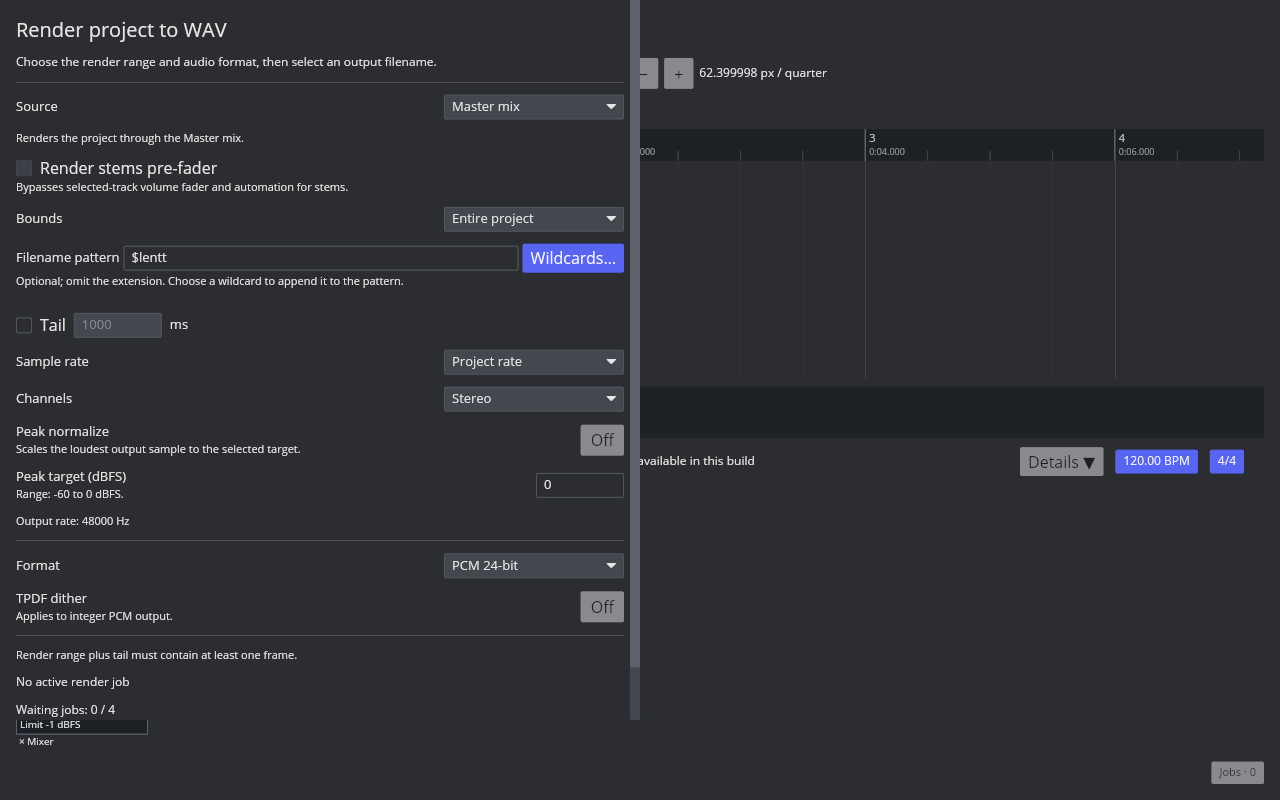
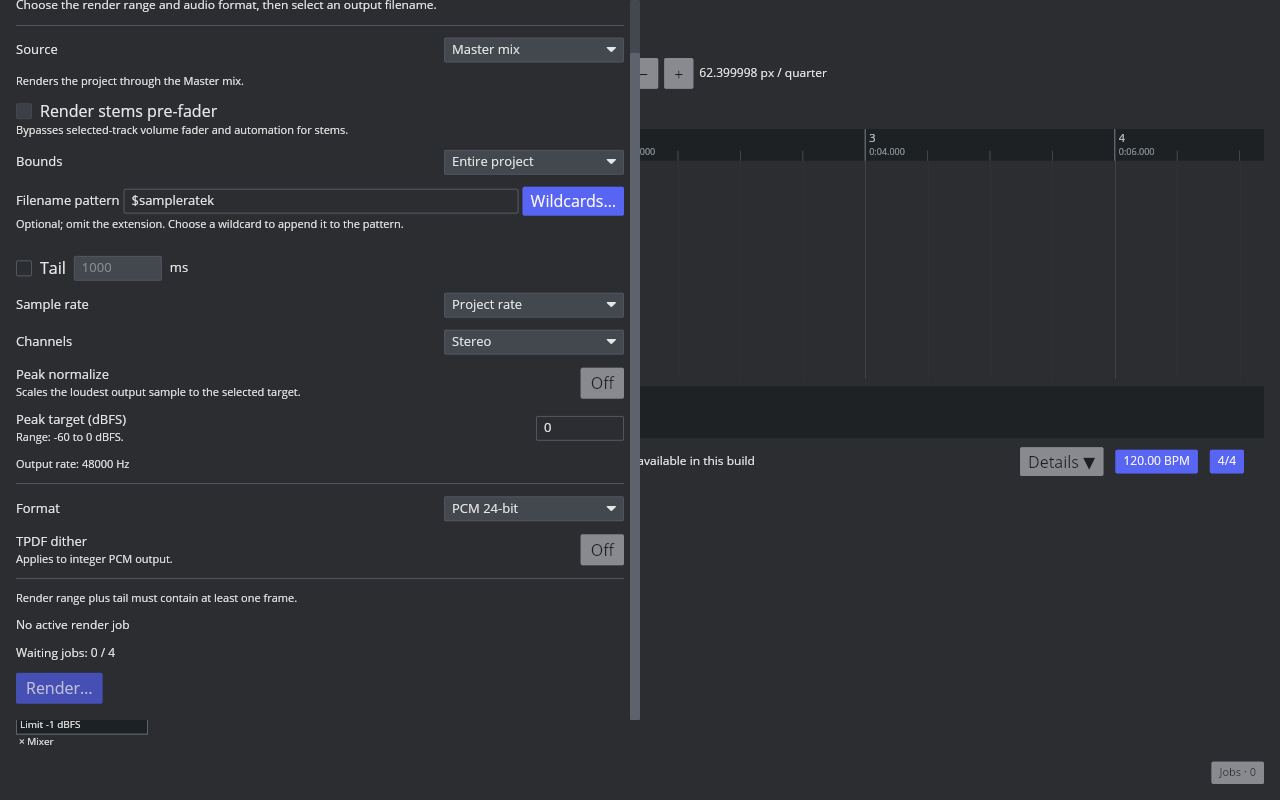
feat(render): add output format wildcards

Changed region(s): [[0.0, 0.0, 0.5, 0.9062], [0.3438, 0.1875, 0.5, 0.7812], [0.4688, 0.8438, 0.5, 0.9062]]

diff --git a/crates/aaadaw/src/app/audio_export.rs b/crates/aaadaw/src/app/audio_export.rs
@@ -1,7 +1,7 @@
 use super::messages::FreezeTrackResult;
 use super::offline_job_queue::{EnqueueError, OfflineJobId};
 use super::{App, Message, run_blocking};
-use aaadaw_app::WavChannelCount;
+use aaadaw_app::{WavChannelCount, WavSampleFormat};
 use aaadaw_core::{DawAction, ItemId, MarkerId, Project, ProjectSnapshot, RegionId, TrackId};
 use aaadaw_storage::ProjectStore;
 use iced::Task;
@@ -77,11 +77,16 @@ pub(crate) enum RenderFilenameWildcard {
     LengthMinutes,
     LengthSecondsComponent,
     LengthMilliseconds,
+    Format,
+    SampleRate,
+    SampleRateKilohertz,
+    BitDepth,
+    Channels,
     Bpm,
 }
 
 impl RenderFilenameWildcard {
-    pub(crate) const ALL: [Self; 35] = [
+    pub(crate) const ALL: [Self; 40] = [
         Self::Project,
         Self::Title,
         Self::Author,
@@ -117,6 +122,11 @@ impl RenderFilenameWildcard {
         Self::LengthMinutes,
         Self::LengthSecondsComponent,
         Self::LengthMilliseconds,
+        Self::Format,
+        Self::SampleRate,
+        Self::SampleRateKilohertz,
+        Self::BitDepth,
+        Self::Channels,
     ];
 
     pub(crate) const fn token(self) -> &'static str {
@@ -155,6 +165,11 @@ impl RenderFilenameWildcard {
             Self::LengthMinutes => "$lenmm",
             Self::LengthSecondsComponent => "$lenss",
             Self::LengthMilliseconds => "$lentt",
+            Self::Format => "$format",
+            Self::SampleRate => "$samplerate",
+            Self::SampleRateKilohertz => "$sampleratek",
+            Self::BitDepth => "$bitdepth",
+            Self::Channels => "$channels",
             Self::Bpm => "$bpm",
         }
     }
@@ -845,6 +860,33 @@ fn format_render_wildcard_length_components(seconds: f64) -> [String; 4] {
     ]
 }
 
+fn format_render_wildcard_sample_rate_kilohertz(sample_rate: u32) -> String {
+    let kilohertz = sample_rate / 1_000;
+    let remainder = sample_rate % 1_000;
+    if remainder == 0 {
+        kilohertz.to_string()
+    } else if remainder.is_multiple_of(100) {
+        format!("{kilohertz}.{}", remainder / 100)
+    } else if remainder.is_multiple_of(10) {
+        format!("{kilohertz}.{:02}", remainder / 10)
+    } else {
+        format!("{kilohertz}.{remainder:03}")
+    }
+}
+
+fn format_render_wildcard_bit_depth(sample_format: WavSampleFormat) -> String {
+    match sample_format {
+        WavSampleFormat::Pcm8 | WavSampleFormat::MuLaw8 => "8",
+        WavSampleFormat::Pcm16 => "16",
+        WavSampleFormat::Pcm24 => "24",
+        WavSampleFormat::Pcm32 | WavSampleFormat::Float32 => "32",
+        WavSampleFormat::Float64 => "64",
+        WavSampleFormat::ImaAdpcm4 => "4",
+        WavSampleFormat::Cadpcm2 => "2",
+    }
+    .to_owned()
+}
+
 fn expand_render_filename_pattern(
     pattern: &str,
     fallback: &str,
@@ -1038,6 +1080,15 @@ fn expand_render_filename_pattern(
             "lenmm" => result.push_str(&length_components[1]),
             "lenss" => result.push_str(&length_components[2]),
             "lentt" => result.push_str(&length_components[3]),
+            "format" => result.push_str("wav"),
+            "samplerate" => result.push_str(&settings.output_sample_rate.to_string()),
+            "sampleratek" => result.push_str(&format_render_wildcard_sample_rate_kilohertz(
+                settings.output_sample_rate,
+            )),
+            "bitdepth" => result.push_str(&format_render_wildcard_bit_depth(
+                settings.export_options.sample_format,
+            )),
+            "channels" => result.push_str(&settings.output_channels.channels().to_string()),
             "tempo" => result.push_str(&bpm_text),
             "timesignature" => result.push_str(&time_signature_text),
             "timesignum" => result.push_str(&time_signature.numerator().to_string()),
@@ -2788,6 +2839,11 @@ mod tests {
                 "$lenmm",
                 "$lenss",
                 "$lentt",
+                "$format",
+                "$samplerate",
+                "$sampleratek",
+                "$bitdepth",
+                "$channels",
             ]
         );
 
@@ -2856,6 +2912,70 @@ mod tests {
                 "/renders/0-02.125-0-03.359-0-01.234-2.1.25-2.3.72-0.2.47-00.00.02.03-00.00.03.10-63-100-37-2.125-3.359-1.234-0-0-1-234.wav"
             )
         );
+    }
+
+    #[test]
+    fn render_filename_output_wildcards_match_native_format_and_channel_values() {
+        let project = Project::default();
+        let mut settings = aaadaw_app::ProjectWavRenderSettings {
+            master_ceiling: aaadaw_engine::MasterOutputCeiling::default(),
+            export_options: aaadaw_app::WavExportOptions::default(),
+            output_sample_rate: 44_100,
+            output_channels: WavChannelCount::Mono,
+            source: aaadaw_app::ProjectWavRenderSource::MasterMix,
+            start_sample: 0,
+            end_sample: 48_000,
+            tail_milliseconds: 0,
+            normalize_peak: false,
+            normalize_peak_target_centi_dbfs: 0,
+        };
+        settings.export_options.sample_format = WavSampleFormat::Pcm16;
+
+        let output = apply_render_filename_pattern(
+            vec![(settings, Path::new("/renders/base.wav").to_owned())],
+            "$format-$samplerate-$sampleratek-$bitdepth-$channels",
+            &project,
+            Path::new("/projects/format.aaadaw"),
+        )
+        .expect("output-format wildcards should expand");
+        assert_eq!(output[0].1, Path::new("/renders/wav-44100-44.1-16-1.wav"));
+
+        settings.output_sample_rate = 22_050;
+        let output = apply_render_filename_pattern(
+            vec![(settings, Path::new("/renders/base.wav").to_owned())],
+            "$samplerate-$sampleratek-$channels",
+            &project,
+            Path::new("/projects/format.aaadaw"),
+        )
+        .expect("fractional kilohertz sample rates should retain precision");
+        assert_eq!(output[0].1, Path::new("/renders/22050-22.05-1.wav"));
+
+        settings.output_sample_rate = 48_000;
+        settings.output_channels = WavChannelCount::Stereo;
+        for (sample_format, bit_depth) in [
+            (WavSampleFormat::Pcm8, "8"),
+            (WavSampleFormat::Pcm16, "16"),
+            (WavSampleFormat::Pcm24, "24"),
+            (WavSampleFormat::Pcm32, "32"),
+            (WavSampleFormat::Float32, "32"),
+            (WavSampleFormat::Float64, "64"),
+            (WavSampleFormat::ImaAdpcm4, "4"),
+            (WavSampleFormat::Cadpcm2, "2"),
+            (WavSampleFormat::MuLaw8, "8"),
+        ] {
+            settings.export_options.sample_format = sample_format;
+            let output = apply_render_filename_pattern(
+                vec![(settings, Path::new("/renders/base.wav").to_owned())],
+                "$bitdepth-$sampleratek-$channels",
+                &project,
+                Path::new("/projects/format.aaadaw"),
+            )
+            .expect("supported WAV bit depth should expand");
+            assert_eq!(
+                output[0].1.file_name().and_then(|name| name.to_str()),
+                Some(format!("{bit_depth}-48-2.wav").as_str())
+            );
+        }
     }
 
     #[test]

diff --git a/crates/aaadaw/src/app/view/render.rs b/crates/aaadaw/src/app/view/render.rs
@@ -251,6 +251,14 @@ pub(super) fn view(app: &App) -> Element<'_, Message> {
                     "Length components:",
                     RenderFilenameWildcard::ALL.into_iter().skip(31).take(4),
                 ),
+                wildcard_group_row(
+                    "Output format:",
+                    RenderFilenameWildcard::ALL.into_iter().skip(35).take(4),
+                ),
+                wildcard_group_row(
+                    "Channels:",
+                    RenderFilenameWildcard::ALL.into_iter().skip(39).take(1),
+                ),
             ]
             .spacing(tokens::SPACING_XS)
         } else {

diff --git a/docs/verification/reaper-parity/render-filename-patterns.md b/docs/verification/reaper-parity/render-filename-patterns.md
@@ -2,10 +2,10 @@
 
 Linux REAPER 7.82 / Default 7 places a `File name` pattern field and `Wildcards` button in the Render window. The captured selected-item case uses `$region-$item` and resolves to `bounds-ui-Region 2-item_02.wav`; the reference dialog and measured output are archived in [the native screenshot](images/render-selected-items-native.png) and [the output record](render-selected-items-native.tsv). The native Region Render Matrix fixture uses `$region-$track` and emits `Intro-Master.wav`, `Intro-Drums.wav`, `Intro-Guitar.wav`, and `Verse-Bass.wav`.
 
-AAADAW now provides an optional filename-pattern field in its Render window and a grouped `Wildcards…` picker immediately below it. Its 35 implemented tokens cover `$project`, `$title`, `$author`, `$projectnotes`, `$bpm`, `$tempo`, `$timesignature`, `$timesignum`, `$timesigdenom`, `$track`, `$tracknumber`, `$tracknameornumber`, `$region`, `$regionnumber`, `$marker`, `$markernumber`, `$item`, and the 18 Position/Length tokens `$start`, `$end`, `$length`, `$startbeats`, `$endbeats`, `$lengthbeats`, `$starttc`, `$endtc`, `$startframes`, `$endframes`, `$lengthframes`, `$startseconds`, `$endseconds`, `$lengthseconds`, `$lenhh`, `$lenmm`, `$lenss`, and `$lentt`. Project metadata values come from the existing Project Notes model. Selecting a token appends it to the end of the pattern and closes the picker. A chosen output path supplies the directory and extension; a blank pattern retains the existing generated names. The resolver sanitizes characters unsafe in file names and rejects patterns that resolve multiple jobs to the same name before queueing. The Render job still publishes through the existing atomic batch writer.
+AAADAW now provides an optional filename-pattern field in its Render window and a grouped `Wildcards…` picker immediately below it. Its 40 implemented tokens cover `$project`, `$title`, `$author`, `$projectnotes`, `$bpm`, `$tempo`, `$timesignature`, `$timesignum`, `$timesigdenom`, `$track`, `$tracknumber`, `$tracknameornumber`, `$region`, `$regionnumber`, `$marker`, `$markernumber`, `$item`, the 18 Position/Length tokens `$start`, `$end`, `$length`, `$startbeats`, `$endbeats`, `$lengthbeats`, `$starttc`, `$endtc`, `$startframes`, `$endframes`, `$lengthframes`, `$startseconds`, `$endseconds`, `$lengthseconds`, `$lenhh`, `$lenmm`, `$lenss`, and `$lentt`, plus `$format`, `$samplerate`, `$sampleratek`, `$bitdepth`, and `$channels`. Project metadata values come from the existing Project Notes model. Selecting a token appends it to the end of the pattern and closes the picker. A chosen output path supplies the directory and extension; a blank pattern retains the existing generated names. The resolver sanitizes characters unsafe in file names and rejects patterns that resolve multiple jobs to the same name before queueing. The Render job still publishes through the existing atomic batch writer.
 
-The [AAADAW filename-field capture](fixtures/render-filename-pattern-aaadaw.png), [expanded picker capture](fixtures/render-filename-pattern-wildcards-aaadaw.png), and [wildcard insertion capture](fixtures/render-filename-pattern-wildcard-insert-aaadaw.png) were taken from the rebuilt desktop binary. The reproducible [capture script](../../../scripts/reaper_parity/capture-render-filename-pattern-aaadaw.sh) drives the visible Render command with Ctrl+Alt+R; set `AAADAW_OPEN_WILDCARDS=1` to capture the expanded picker, or `AAADAW_INSERT_WILDCARD=lentt` to click the bottom-row token and capture the resulting field. The current desktop capture confirms that the lowest visible `$lentt` button inserts `$lentt` and closes the picker. Native UI probes accept `AAADAW_REAPER_WILDCARD_PATTERN` to replace their default pattern. The selected-item probe also accepts project title, author, notes, track name, item start, and item length overrides. Native captures verify `$tracknumber-$tracknameornumber-$regionnumber-$tempo-$timesignature-$timesignum-$timesigdenom` as `01-Render fixture-02-120-4-4-4-4.wav`, `$markernumber` as `01.wav`, `$title-$author-$projectnotes` as `Wildcard Session-Render Author-Mix notes.wav`, and an empty track name with `$tracknameornumber` as `Track 01.wav`. At 30 fps and 4/4, a selected item from 2.125 to 3.359 seconds resolves `$start-$end-$length` to `0-02.125-0-03.359-0-01.234`, `$startbeats-$endbeats-$lengthbeats` to `2.1.25-2.3.72-0.2.47`, `$starttc-$endtc` to `00.00.02.03-00.00.03.10`, `$startseconds-$endseconds-$lengthseconds-$startframes-$endframes-$lengthframes` to `2.125-3.359-1.234-63-100-37`, and the length components to `0-0-1-234`. The [native context capture](fixtures/render-wildcards-context-native.png), [marker capture](fixtures/render-wildcards-marker-native.png), [metadata capture](fixtures/render-wildcards-metadata-native.png), [unnamed-track capture](fixtures/render-wildcards-unnamed-track-native.png), and the [clock](fixtures/render-wildcards-clock-native.png), [beats](fixtures/render-wildcards-beats-native.png), [timecode](fixtures/render-wildcards-timecode-native.png), [frames](fixtures/render-wildcards-frames-native.png), and [length components](fixtures/render-wildcards-length-native.png) captures preserve those cases. Screenshot hashes, native inputs, implementation tokens, and regression results are in the [fixture manifest](fixtures/render-filename-pattern-aaadaw.tsv).
+The [AAADAW filename-field capture](fixtures/render-filename-pattern-aaadaw.png), [expanded picker capture](fixtures/render-filename-pattern-wildcards-aaadaw.png), [scrolled picker capture](fixtures/render-filename-pattern-wildcards-scrolled-aaadaw.png), and [wildcard insertion capture](fixtures/render-filename-pattern-wildcard-insert-aaadaw.png) were taken from the rebuilt desktop binary. The reproducible [capture script](../../../scripts/reaper_parity/capture-render-filename-pattern-aaadaw.sh) drives the visible Render command with Ctrl+Alt+R; set `AAADAW_OPEN_WILDCARDS=1` to capture the expanded picker, or `AAADAW_INSERT_WILDCARD=sampleratek` to scroll to the lower groups, click the token, and capture the resulting field. The current desktop capture confirms that `$sampleratek` inserts and closes the picker. Native UI probes accept `AAADAW_REAPER_WILDCARD_PATTERN` to replace their default pattern. The selected-item probe also accepts project title, author, notes, track name, item start, and item length overrides. Native captures verify `$tracknumber-$tracknameornumber-$regionnumber-$tempo-$timesignature-$timesignum-$timesigdenom` as `01-Render fixture-02-120-4-4-4-4.wav`, `$markernumber` as `01.wav`, `$title-$author-$projectnotes` as `Wildcard Session-Render Author-Mix notes.wav`, and an empty track name with `$tracknameornumber` as `Track 01.wav`. At 30 fps and 4/4, a selected item from 2.125 to 3.359 seconds resolves `$start-$end-$length` to `0-02.125-0-03.359-0-01.234`, `$startbeats-$endbeats-$lengthbeats` to `2.1.25-2.3.72-0.2.47`, `$starttc-$endtc` to `00.00.02.03-00.00.03.10`, `$startseconds-$endseconds-$lengthseconds-$startframes-$endframes-$lengthframes` to `2.125-3.359-1.234-63-100-37`, and the length components to `0-0-1-234`. The [native context capture](fixtures/render-wildcards-context-native.png), [marker capture](fixtures/render-wildcards-marker-native.png), [metadata capture](fixtures/render-wildcards-metadata-native.png), [unnamed-track capture](fixtures/render-wildcards-unnamed-track-native.png), and the [clock](fixtures/render-wildcards-clock-native.png), [beats](fixtures/render-wildcards-beats-native.png), [timecode](fixtures/render-wildcards-timecode-native.png), [frames](fixtures/render-wildcards-frames-native.png), and [length components](fixtures/render-wildcards-length-native.png) captures preserve those cases. Screenshot hashes, native inputs, implementation tokens, and regression results are in the [fixture manifest](fixtures/render-filename-pattern-aaadaw.tsv).
 
-The regression resolves the native `$region-$track` matrix pattern to the same four native target names, renders those jobs through AAADAW's offline audio renderer, and compares every PCM24 sample to the matching REAPER output. A second test resolves `$region-$item` to the observed `Intro-item_01.wav` form. The context-expansion regression checks Project Notes title/author/text, all Position/Length values, and track, region, tempo, and time-signature values; an unnamed track resolves `$tracknameornumber` to the native `Track 02` form. The native unnamed-track render preview shows `Track 01.wav`. Separate cases cover safe-name conversion, blank-pattern fallback, unknown literal tokens, and duplicate-name rejection. The queue test sets `$project-$track` through the Render message and checks that queued stem paths use the expanded project and track names; it also verifies duplicate names leave the queue unchanged. The picker regression covers all 35 visible tokens, appending the selected token, and closing the menu. See the manifest for current build, screenshot hashes, and validation counts.
+The regression resolves the native `$region-$track` matrix pattern to the same four native target names, renders those jobs through AAADAW's offline audio renderer, and compares every PCM24 sample to the matching REAPER output. A second test resolves `$region-$item` to the observed `Intro-item_01.wav` form. The context-expansion regression checks Project Notes title/author/text, all Position/Length values, and track, region, tempo, and time-signature values; an unnamed track resolves `$tracknameornumber` to the native `Track 02` form. The native unnamed-track render preview shows `Track 01.wav`. Separate cases cover safe-name conversion, blank-pattern fallback, unknown literal tokens, and duplicate-name rejection. The queue test sets `$project-$track` through the Render message and checks that queued stem paths use the expanded project and track names; it also verifies duplicate names leave the queue unchanged. The picker regression covers all 40 visible tokens, appending the selected token, and closing the menu. The output-context regression checks native values for WAV format, 44.1/22.05 kHz formatting, 16/24/32/64-bit PCM/float and 4/2-bit compressed WAV values, and Mono/Stereo channel counts. See the manifest for current build, screenshot hashes, and validation counts.
 
-This does not complete REAPER Wildcards parity. The picker exposes a tested subset of the native token set and appends at the pattern end; insertion at the caret or over a selection, `$projectnotes(name)` and named-note parsing, project directory variants, region/marker/item note and name expressions, folders/parent/FX, recording names, output format/channels, date/time/unique IDs, computer/user values, REAPER's full ordering and escaping rules, pattern presets and cross-launch persistence, native collision prompts, and remaining source/range combinations are open. Position/Length formatting is verified with the default 4/4 meter and 30 fps, while project time offset, meter changes across the render range, other frame rates, drop-frame modes, and Tail interactions still need native comparisons. The native context captures verify track number/name, region number, tempo, time signature components, marker number, project title/author/notes, and the sampled time/beat/frame output forms. `$marker` text/name expansion and many source-dependent values still need native comparisons. `RENDER-WILDCARDS-001`, `RENDER-SOURCE-001`, and `UI-028` remain `in_progress`.
+The [native wildcard catalog](render-wildcard-catalog.md) records the 97 entries visible in REAPER 7.82 menus and the native Wildcard help rules. This does not complete REAPER Wildcards parity: AAADAW exposes 40 tokens in a flat scrollable grouped picker and appends at the pattern end; insertion at the caret or over a selection, `$projectnotes(name)` and named-note parsing, project directory variants, region/marker/item note and name expressions, folders/parent/FX, recording names, date/time/unique IDs, computer/user values, REAPER's full ordering and escaping rules, pattern presets and cross-launch persistence, native collision prompts, non-WAV formats, per-channel `$chid`, and remaining source/range combinations are open. Position/Length formatting is verified with the default 4/4 meter and 30 fps, while project time offset, meter changes across the render range, other frame rates, drop-frame modes, and Tail interactions still need native comparisons. The native context captures verify track number/name, region number, tempo, time signature components, marker number, project title/author/notes, and the sampled time/beat/frame output forms. `$marker` text/name expansion and many source-dependent values still need native comparisons. `RENDER-WILDCARDS-001`, `RENDER-SOURCE-001`, and `UI-028` remain `in_progress`.

diff --git a/docs/verification/reaper-parity/render-wildcard-catalog.md b/docs/verification/reaper-parity/render-wildcard-catalog.md
@@ -1,0 +1,38 @@
+# REAPER Render wildcard catalog
+
+This catalog comes from the actual Linux REAPER 7.82 Render dialog using the Default 7 theme and an isolated configuration. The [top-level Wildcards menu](fixtures/render-wildcards-menu-native.png) and its category menus were captured directly from the application. The [Wildcard help pages](fixtures/render-wildcards-help-1-native.png), [2](fixtures/render-wildcards-help-2-native.png), [3](fixtures/render-wildcards-help-3-native.png), [4](fixtures/render-wildcards-help-4-native.png), and [5](fixtures/render-wildcards-help-5-native.png) record expansion rules and value semantics.
+
+## Native menu entries
+
+The native menu exposes these entries, grouped as follows:
+
+| Category | Tokens |
+| --- | --- |
+| Project Information | `$project`, `$title`, `$author`, `$projectnotes`, `$projectnotes(name)`, `$projectdirectory`, `$projectdirectoryN`, `$track`, `$trackslashes`, `$tracknumber`, `$tracknamenumber`, `$seltrack`, `$folders`, `$folders[X]`, `$parent`, `$tempo`, `$timesignature`, `$timesignum`, `$timesigdenom`, `$playrate`, `$fx`, `$fx[X]` |
+| Regions/Markers | `$region`, `$region{lane}`, `$regionname`, `$region(name)`, `$region(name)[s]`, `$regionnumber`, `$regionnumber[N]`, `$marker`, `$marker{lane}`, `$markername`, `$marker(name)`, `$marker(name)[s]`, `$markernumber`, `$markernumber[N]` |
+| Media Items | `$item`, `$itemnumber`, `$itemnotes`, `$itemnotes(name)`, `$takemarker`, `$takemarker(name)`, `$takemarker(name)[s]`, `$lane` |
+| Position/Length | `$start`, `$end`, `$length`, `$startbeats`, `$endbeats`, `$lengthbeats`, `$starttc`, `$endtc`, `$startframes`, `$endframes`, `$lengthframes`, `$startseconds`, `$endseconds`, `$lengthseconds`, `$lenhh`, `$lenmm`, `$lenss`, `$lentt` |
+| Recording | `$filenumber`, `$filenumber[N]`, `$filecount`, `$note`, `$note[X]`, `$natural`, `$namenumber`, `$timelineorder`, `$timelineorder[N]`, `$timelineorder_track`, `$timelineorder_track[N]` |
+| Output Format | `$format`, `$samplerate`, `$sampleratek`, `$bitdepth` |
+| Channels | `$channels`, `$chid` |
+| Date/Time/Unique ID | `$date`, `$time`, `$datetime`, `$year`, `$year2`, `$month`, `$monthname`, `$day`, `$dayname`, `$hour`, `$hour12`, `$ampm`, `$minute`, `$second`, `$localtime`, `$uniqueid[N]` |
+| Computer Information | `$user`, `$computer` |
+
+The category captures are [Project Information](fixtures/render-wildcards-project-info-native.png), [Regions/Markers](fixtures/render-wildcards-regions-native.png), [Media Items](fixtures/render-wildcards-media-native.png), [Position/Length](fixtures/render-wildcards-position-native.png), [Recording](fixtures/render-wildcards-recording-native.png), [Output Format](fixtures/render-wildcards-format-native.png), [Channels](fixtures/render-wildcards-channels-native.png), [Date/Time/Unique ID](fixtures/render-wildcards-date-native.png), and [Computer Information](fixtures/render-wildcards-computer-native.png). The adjacent [master-track substitution](fixtures/render-wildcards-master-track-native.png) and [directory substitution option](fixtures/render-wildcards-options-native.png) are settings rather than wildcard tokens.
+
+## Expansion rules observed in native help
+
+- Capitalizing the first character of a wildcard capitalizes the first character of its substitution. Capitalizing its first two characters uppercases the substitution; a lowercase first character and uppercase second character lowercases it.
+- `<X>` removes the character `X` from a substitution. `<abcdeX>` replaces each character in `abcde` with `X`; for example, `$track< >` removes spaces and `$track< _>` replaces spaces with underscores.
+- A `[N]` suffix numbers repeated outputs with zero padding, as in `$filenumber[01]` or `$regionnumber[001]`. `[<N]` keeps the first N characters of a value, as in `$region[<4]`.
+- If a wildcard expands to an empty value, an adjacent space, hyphen, underscore, or dot is omitted. The Render Options menu can allow `/` in substitutions and create directories; `$folders` and `$trackslashes` override that setting.
+- `{lane}` on region or marker tokens limits expansion to objects on that ruler lane. Named values use `name=value` text: `$projectnotes(name)`, `$region(name)`, `$marker(name)`, `$itemnotes(name)`, and `$takemarker(name)` select matching values. A `[s]` suffix joins multiple matches with `s`. REAPER's help illustrates named project notes, marker values, and applying the same rules to item notes.
+- The Position/Length help defines clock, beats, timecode, absolute-frame, total-seconds, and split length fields. Recording tokens depend on output-file order, timeline order, item/region name collisions, or the MIDI note sequence, depending on the token.
+
+The captured Output Format previews confirm `wav-44100-44.1-24-2` for 44.1 kHz / 24-bit / stereo, `wav-44100-44.1-24-1` for mono, and `wav-22050-22.05-2-1` for 22.05 kHz / 2-bit cADPCM / mono. Native previews also show `$bitdepth` as `16`, `4`, and `2` for PCM16, IMA ADPCM, and cADPCM respectively. See the [format](fixtures/render-wildcards-format-preview-native.png), [mono](fixtures/render-wildcards-mono-native.png), [22.05 kHz](fixtures/render-wildcards-samplerate-22050-native.png), [PCM16](fixtures/render-wildcards-bitdepth-16-native.png), [IMA ADPCM](fixtures/render-wildcards-bitdepth-ima-native.png), and [cADPCM](fixtures/render-wildcards-bitdepth-cadpcm-native.png) captures.
+
+## AAADAW status
+
+AAADAW implements 40 tokens: `$project`, `$title`, `$author`, `$projectnotes`, `$bpm`, `$tempo`, `$timesignature`, `$timesignum`, `$timesigdenom`, `$track`, `$tracknumber`, `$tracknameornumber`, `$region`, `$regionnumber`, `$marker`, `$markernumber`, `$item`, the 18 Position/Length entries above, and `$format`, `$samplerate`, `$sampleratek`, `$bitdepth`, and `$channels`. `$bpm` and `$tracknameornumber` are accepted compatibility forms outside the captured native menu labels. The native menu groups items hierarchically; AAADAW currently presents its flat grouped picker in a scrollable panel. Its lower rows and a real `$sampleratek` insertion are shown in the [scrolled AAADAW picker](fixtures/render-filename-pattern-wildcards-scrolled-aaadaw.png) and [insertion capture](fixtures/render-filename-pattern-wildcard-insert-aaadaw.png).
+
+The rest of the native catalog and its expansion syntax remain open. In particular, named notes and expressions, directory and folder hierarchy, parent and FX names, marker/item identity and ordering, recording counters, date/time and unique IDs, user/computer values, substitution character rules, empty-value separator removal, presets, `Master $Track` substitution, non-WAV formats, and per-channel `$chid` need implementation or additional source-specific REAPER comparisons. `RENDER-WILDCARDS-001` remains `in_progress`.

diff --git a/docs/verification/reaper-parity/render-source.md b/docs/verification/reaper-parity/render-source.md
@@ -20,7 +20,7 @@ AAADAW stores a Master-mix boolean and ordered TrackId list per project region i
 
 The Render Source menu now offers `Region Render Matrix` with All/Selected Project Regions bounds. The existing atomic batch-render queue builds one output for each assigned Master row and one for each assigned track row, and stores per-region ranges in each job. The native Linux REAPER 7.82 render action produced four outputs for this fixture: `Intro-Master.wav`, `Intro-Drums.wav`, `Intro-Guitar.wav`, and `Verse-Bass.wav`; unassigned target/region pairs produced no files. All four files were 48 kHz stereo PCM24 with 96,000 frames. The [source generator](../../../scripts/reaper_parity/generate-region-render-matrix-sources.py), [ReaScript render probe](../../../scripts/reaper_parity/probe-region-render-matrix-render.lua), [native output table](fixtures/region-render-matrix-render-native.tsv), and [PCM fixtures](fixtures/region-render-matrix-render/) preserve the setup, metadata, hashes, and payloads. An AAADAW regression renders the same four target jobs and compares every PCM payload byte-for-byte with the corresponding native fixture; output format, frame count, and sample values also match exactly.
 
-The Render window now has an optional filename-pattern field and a grouped `Wildcards…` picker for 35 implemented tokens: `$project`, `$title`, `$author`, `$projectnotes`, `$bpm`, `$tempo`, `$timesignature`, `$timesignum`, `$timesigdenom`, `$track`, `$tracknumber`, `$tracknameornumber`, `$region`, `$regionnumber`, `$marker`, `$markernumber`, `$item`, and the 18 Position/Length tokens. The existing Project Notes title, author, and text fields drive the three new metadata variables. A native selected-item Render probe confirms `$title-$author-$projectnotes` resolves to `Wildcard Session-Render Author-Mix notes.wav`; `$tracknumber-$tracknameornumber-$regionnumber-$tempo-$timesignature-$timesignum-$timesigdenom` resolves to `01-Render fixture-02-120-4-4-4-4.wav`, and the marker probe confirms `$markernumber` resolves to `01.wav`. REAPER's changelog specifies that an unnamed track resolves `$tracknameornumber` to `Track NN`; a fresh native dialog shows an empty track name resolving to `Track 01.wav`, which AAADAW now matches. For a selected item from 2.125 to 3.359 seconds, native Render previews verify clock values `0-02.125`, beat values `2.1.25-2.3.72-0.2.47`, timecode `00.00.02.03-00.00.03.10`, seconds and 30 fps counts `2.125-3.359-1.234-63-100-37`, and length components `0-0-1-234`. The native context, metadata, marker, unnamed-track, and Position/Length screenshots are in the filename wildcard fixture set. For the tested `$region-$track` pattern, AAADAW emits the native names `Intro-Master.wav`, `Intro-Drums.wav`, `Intro-Guitar.wav`, and `Verse-Bass.wav`; its offline renderer still matches all four native PCM payloads byte-for-byte. The native `$region-$item` case resolves to `bounds-ui-Region 2-item_02.wav`, and AAADAW resolves the same token pair to the observed item-name form. Blank patterns keep the existing generated output names. Caret/selection insertion, named project-note parsing, the complete token and escaping rules, preset persistence, and more source/range combinations remain open; see [filename wildcard verification](render-filename-patterns.md). The simple fixture confirms the tested track signal and Master sum, but not pre/post-fader settings, automation, folders/sends, or FX routing. Those gaps keep `RENDER-SOURCE-001` and `PROJECT-REGIONS-001` `in_progress`.
+The Render window now has an optional filename-pattern field and a grouped `Wildcards…` picker for 40 implemented tokens: `$project`, `$title`, `$author`, `$projectnotes`, `$bpm`, `$tempo`, `$timesignature`, `$timesignum`, `$timesigdenom`, `$track`, `$tracknumber`, `$tracknameornumber`, `$region`, `$regionnumber`, `$marker`, `$markernumber`, `$item`, the 18 Position/Length tokens, and `$format`, `$samplerate`, `$sampleratek`, `$bitdepth`, and `$channels`. The existing Project Notes title, author, and text fields drive the three new metadata variables. A native selected-item Render probe confirms `$title-$author-$projectnotes` resolves to `Wildcard Session-Render Author-Mix notes.wav`; `$tracknumber-$tracknameornumber-$regionnumber-$tempo-$timesignature-$timesignum-$timesigdenom` resolves to `01-Render fixture-02-120-4-4-4-4.wav`, and the marker probe confirms `$markernumber` resolves to `01.wav`. REAPER's changelog specifies that an unnamed track resolves `$tracknameornumber` to `Track NN`; a fresh native dialog shows an empty track name resolving to `Track 01.wav`, which AAADAW now matches. For a selected item from 2.125 to 3.359 seconds, native Render previews verify clock values `0-02.125`, beat values `2.1.25-2.3.72-0.2.47`, timecode `00.00.02.03-00.00.03.10`, seconds and 30 fps counts `2.125-3.359-1.234-63-100-37`, and length components `0-0-1-234`. The native context, metadata, marker, unnamed-track, Position/Length, Output Format, and Channels screenshots are in the filename wildcard fixture set. The native wildcard menu and help catalog is recorded in [the catalog verification](render-wildcard-catalog.md). For the tested `$region-$track` pattern, AAADAW emits the native names `Intro-Master.wav`, `Intro-Drums.wav`, `Intro-Guitar.wav`, and `Verse-Bass.wav`; its offline renderer still matches all four native PCM payloads byte-for-byte. The native `$region-$item` case resolves to `bounds-ui-Region 2-item_02.wav`, and AAADAW resolves the same token pair to the observed item-name form. Blank patterns keep the existing generated output names. Caret/selection insertion, named project-note parsing, the complete token and escaping rules, preset persistence, and more source/range combinations remain open; see [filename wildcard verification](render-filename-patterns.md). The simple fixture confirms the tested track signal and Master sum, but not pre/post-fader settings, automation, folders/sends, or FX routing. Those gaps keep `RENDER-SOURCE-001` and `PROJECT-REGIONS-001` `in_progress`.
 
 ### Selected media items
 

diff --git a/docs/reaper-parity/progress.md b/docs/reaper-parity/progress.md
@@ -26,7 +26,7 @@
 | P7 | 未开始 | MIDI |
 | P8 | 未开始 | 自动化 |
 | P9 | 未开始 | 插件 |
-| P10 | 进行中 | 工程帧率/时间码、Notes 与 General 起始速度/拍号/采样率/有符号 Start measure/BPM basis/标尺间隔锚点/Project start time 显示偏移/已实现字段的默认工程设置保存；媒体默认已有 64pt playback/192pt render sinc，Render 支持 Entire project/Time selection/Custom time range/All project regions/All project markers、默认关闭且整数毫秒输入的 Tail、Project/常用预设输出采样率转换、Mono/Stereo WAV、PCM8/16/24/32、Float32/64、4-bit IMA ADPCM、2-bit cADPCM 与 8-bit u-Law、可调 sample-peak、Selected tracks (stems)/pre-fader/via master、Master mix and stems，以及 Region Render Matrix 的 All/Selected Regions 批量任务构造、一组 4 文件原厂 PCM24 对照和 35 个常用 Wildcard token（其中新增 18 个 Position/Length 项并与 REAPER 7.82 实窗输出比对）；$region-$track 原厂文件名与完整 PCM 已一致，完整 Wildcards chooser/规则/跨启动保存及其他路由行为仍待验收；cADPCM 编码尚未逐字节一致、Selected regions/markers、其他 Bounds、多声道、其他归一化/限制后处理和完整原厂对照仍缺 |
+| P10 | 进行中 | 工程帧率/时间码、Notes 与 General 起始速度/拍号/采样率/有符号 Start measure/BPM basis/标尺间隔锚点/Project start time 显示偏移/已实现字段的默认工程设置保存；媒体默认已有 64pt playback/192pt render sinc，Render 支持 Entire project/Time selection/Custom time range/All project regions/All project markers、默认关闭且整数毫秒输入的 Tail、Project/常用预设输出采样率转换、Mono/Stereo WAV、PCM8/16/24/32、Float32/64、4-bit IMA ADPCM、2-bit cADPCM 与 8-bit u-Law、可调 sample-peak、Selected tracks (stems)/pre-fader/via master、Master mix and stems，以及 Region Render Matrix 的 All/Selected Regions 批量任务构造、一组 4 文件原厂 PCM24 对照和 40 个常用 Wildcard token（其中 18 个 Position/Length 项及 5 个输出格式/通道值与 REAPER 7.82 实窗输出比对）；$region-$track 原厂文件名与完整 PCM 已一致，完整 Wildcards chooser/规则/跨启动保存及其他路由行为仍待验收；cADPCM 编码尚未逐字节一致、Selected regions/markers、其他 Bounds、多声道、其他归一化/限制后处理和完整原厂对照仍缺 |
 | P11 | 未开始 | 其他原厂界面 |
 | P12 | 未开始 | 全量验收 |
 
@@ -1575,3 +1575,12 @@ Render 窗口新增可选文件名模式字段及分组的 `Wildcards…` 插入
 Render filename picker 新增 `$start`、`$end`、`$length`、beat、timecode、frame、seconds 与 length-component 共 18 个 Position/Length tokens，picker 扩展到 35 项并按功能分组。REAPER 7.82 默认设置下，用 2.125–3.359 秒选中 Item 验证时钟、4/4 拍位置、30 fps timecode/frame、秒与毫秒长度输出；原厂截图及预期值已入 fixture。修复 Media items 行误收全部后续按钮造成的横向溢出；更新后的 640×720 Render 窗口完整展示各组按钮，并通过 X11 实点最底部 `$lentt` 按钮，确认写入字段后关闭 picker。
 
 App nextest 664/664、strict all-target App Clippy `-D warnings`、stripped-debug 桌面构建通过；默认界面、全量 picker、实际 token 插入截图来自同一 Build ID，并记录在 [Wildcard 验证](../verification/reaper-parity/render-filename-patterns.md) 与 fixture manifest。格式、diff 检查、102 行唯一 ID 矩阵与全部 12 张登记截图 SHA-256 通过。项目时间偏移、跨拍号范围、非 30 fps、drop-frame、Tail 交互及 REAPER 完整 wildcard 清单仍待原厂比对，`RENDER-WILDCARDS-001`/P10 持续 `in_progress`。
+
+
+## 2026-10-16 Render format/channel wildcards and native catalog
+
+根据 REAPER 7.82 Wildcards 菜单及 help 页新增 `$format`、`$samplerate`、`$sampleratek`、`$bitdepth` 和 `$channels`，AAADAW picker 扩展到 40 项。原厂实窗预览验证 48 kHz/24-bit/stereo、44.1 kHz/mono/16-bit、22.05 kHz/mono/2-bit cADPCM，以及 IMA 4-bit；千赫兹字符串分别匹配 `48`、`44.1`、`22.05`，频道数匹配 1/2，压缩 WAV 的 bit depth 按 4/2 显示。功能回归覆盖 9 种已有 WAV sample format、44100/22050/48000 sample rates 和 Mono/Stereo。
+
+重新组织 picker 末端为独立 Output format 与 Channels 行，并为新增的屏外组补充滚动插入路径；实点 `$sampleratek` 后字段填入正确 token 且面板关闭。40 项分组与滚动后的下半组已用当前 Build ID `33c695bb92717bccbf4a2727bcdfc47b10d62e70` 的实际桌面二进制截图。
+
+另从原厂实窗采集九类共 97 个 wildcard 菜单项、Master $Track substitution 与目录创建选项，并记录 wildcard help 的大小写、字符替换、序号/截取、空值分隔符清理、命名 notes 与位置语义；详情及截图在[原厂 Wildcard catalog](../verification/reaper-parity/render-wildcard-catalog.md)。AAADAW 当前实现 40 项，其余原厂 token、层级 submenu 交互、语法、预设和多源/range 行为继续保持未完成。App nextest 665/665、strict all-target App Clippy `-D warnings`、stripped-debug 构建、格式检查、diff、102 项唯一验收矩阵及 36 张登记截图 SHA-256 通过；`RENDER-WILDCARDS-001`/P10 仍 `in_progress`。
